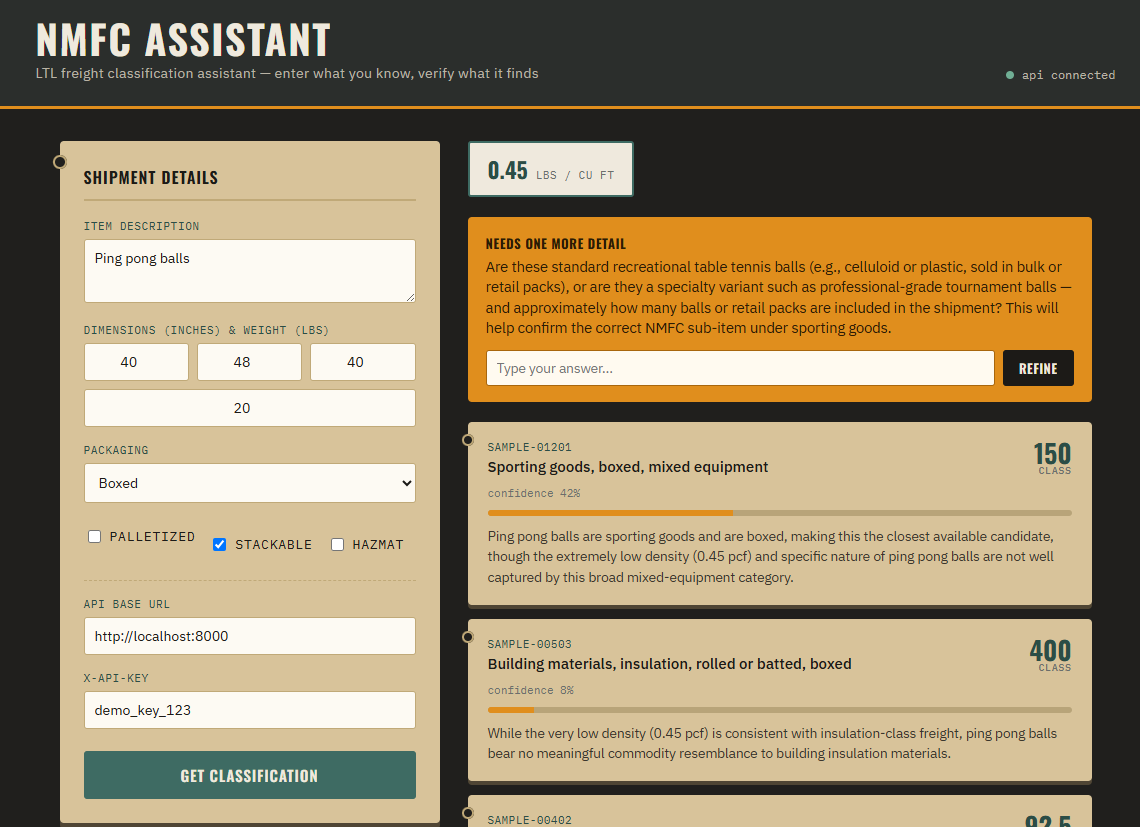
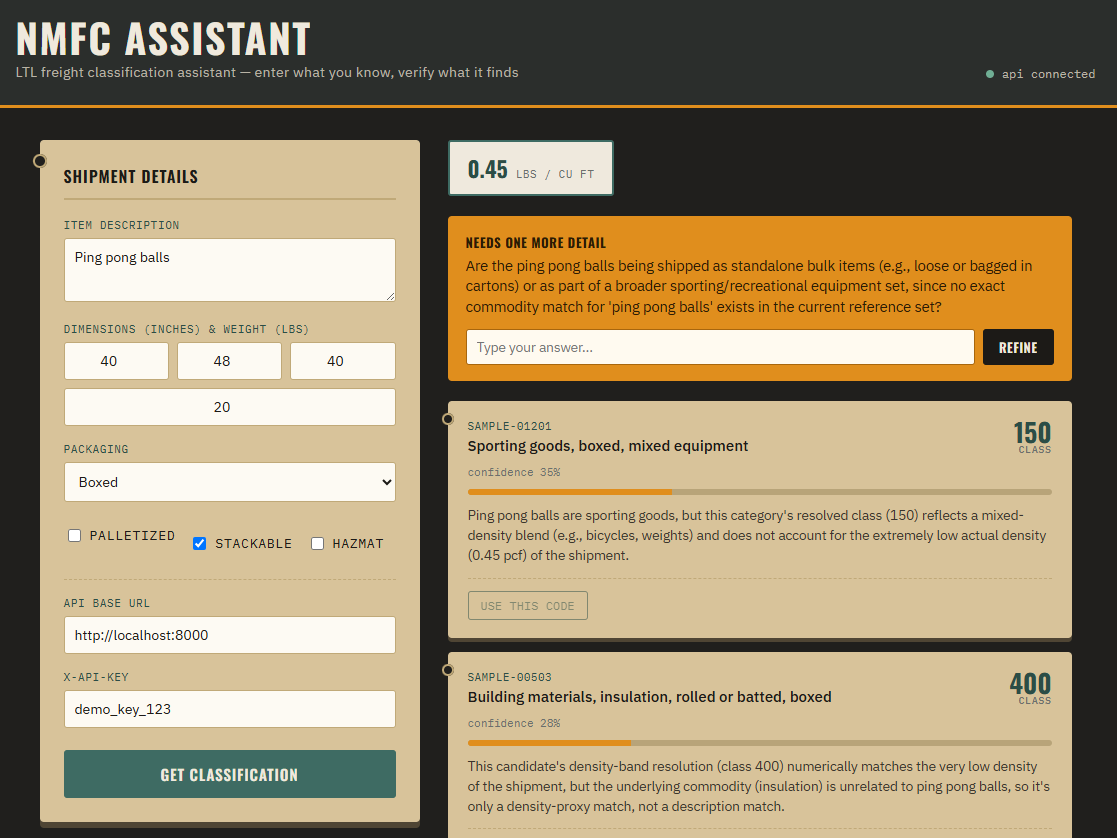
Add Sheets logging, fix latency + response parsing
Add Sheets logging, fix latency + response parsing

Changed region(s): [[0.0, 0.0, 1.0, 1.0]]

diff --git a/demo.html b/demo.html
@@ -395,6 +395,41 @@
     border-radius: 3px;
   }
 
+  .select-row {
+    margin-top: 12px;
+    padding-top: 12px;
+    border-top: 1px dashed var(--manila-dark);
+  }
+
+  button.select-btn {
+    background: transparent;
+    color: var(--teal-dark);
+    border: 1.5px solid var(--teal-dark);
+    font-family: 'IBM Plex Mono', monospace;
+    font-size: 11.5px;
+    letter-spacing: 0.03em;
+    text-transform: uppercase;
+    padding: 6px 12px;
+    border-radius: 3px;
+    cursor: pointer;
+  }
+  button.select-btn:hover { background: var(--teal-dark); color: var(--chalk); }
+  button.select-btn:focus-visible { outline: 3px solid var(--amber); outline-offset: 2px; }
+  button.select-btn:disabled { opacity: 0.5; cursor: default; }
+
+  .selected-mark {
+    font-family: 'IBM Plex Mono', monospace;
+    font-size: 11.5px;
+    letter-spacing: 0.03em;
+    color: var(--teal-dark);
+    font-weight: 600;
+  }
+
+  .tag.is-selected {
+    outline: 3px solid var(--teal-dark);
+    outline-offset: 2px;
+  }
+
   .error-box {
     background: #3a1f14;
     color: #f0c9a8;
@@ -509,7 +544,7 @@
       ? `<div class="hazmat-strip">⚠ HAZMAT — requires manual compliance review regardless of confidence</div>`
       : '';
     return `
-      <div class="tag">
+      <div class="tag" data-item-id="${s.nmfc_item_id}">
         <div class="tag-top-row">
           <div>
             <div class="tag-id">${s.nmfc_item_id}</div>
@@ -521,6 +556,9 @@
         <div class="gauge"><div class="gauge-fill ${confidenceClass(s.confidence)}" style="width:${pct}%"></div></div>
         <div class="rationale">${s.rationale}</div>
         ${hazmatStrip}
+        <div class="select-row">
+          <button type="button" class="select-btn" data-select-id="${s.nmfc_item_id}">Use this code</button>
+        </div>
       </div>
     `;
   }
@@ -529,6 +567,48 @@
   // answer can be merged in and re-sent without making the user retype the form.
   let lastPayload = null;
   let lastQuestion = null;
+  let lastResponseData = null;   // the full /suggest response, needed for logging selections
+  let lastDescription = null;
+
+  function wireSelectButtons() {
+    document.querySelectorAll('.select-btn').forEach((btn) => {
+      btn.addEventListener('click', () => logSelection(btn.dataset.selectId));
+    });
+  }
+
+  async function logSelection(selectedItemId) {
+    if (!lastResponseData || !lastDescription) return;
+
+    const base = document.getElementById('apiBase').value.replace(/\/$/, '');
+    const apiKey = document.getElementById('apiKey').value;
+
+    // Reflect the choice in the UI immediately, before waiting on the network call —
+    // this is a background analytics signal, not something that should block the user.
+    document.querySelectorAll('.tag').forEach((tag) => {
+      tag.classList.toggle('is-selected', tag.dataset.itemId === selectedItemId);
+    });
+    document.querySelectorAll('.select-btn').forEach((btn) => {
+      btn.disabled = true;
+      btn.textContent = btn.dataset.selectId === selectedItemId ? '✓ Selected' : 'Use this code';
+    });
+
+    try {
+      await fetch(`${base}/v1/nmfc/log-selection`, {
+        method: 'POST',
+        headers: { 'Content-Type': 'application/json', 'X-API-Key': apiKey },
+        body: JSON.stringify({
+          description: lastDescription,
+          computed_density_pcf: lastResponseData.computed_density_pcf,
+          suggestions: lastResponseData.suggestions,
+          selected_item_id: selectedItemId,
+        }),
+      });
+      // Logging failures are silent by design here — this is a background signal,
+      // not something worth interrupting the user's workflow over.
+    } catch {
+      /* no-op */
+    }
+  }
 
   async function runClassification(payload, busyEl, busyLabel, idleLabel) {
     busyEl.disabled = true;
@@ -582,6 +662,10 @@
 
       lastPayload = payload;
       lastQuestion = data.clarifying_question;
+      lastResponseData = data;
+      lastDescription = payload.description;
+
+      wireSelectButtons();
 
       if (data.needs_clarification) {
         document.getElementById('refineBtn').addEventListener('click', submitClarification);

diff --git a/main.py b/main.py
@@ -35,9 +35,24 @@ from pydantic import BaseModel, Field
 import anthropic
 
 from density import compute_density_pcf, resolve_class
-from build_embeddings import search, load_dataset
+from build_embeddings import search, load_dataset, MODEL_NAME
+from sentence_transformers import SentenceTransformer
+import sheets_logger
 
 app = FastAPI(title="NMFC Code Suggestion API", version="0.1.0")
+
+# The embedding model is loaded once here, at process startup, and reused for
+# every request. Loading it fresh per-request (the previous behavior when no
+# model was passed to search()) was the single biggest source of latency —
+# several seconds of model initialization on every call for no reason, since
+# the model itself never changes between requests.
+_embedding_model: Optional[SentenceTransformer] = None
+
+
+@app.on_event("startup")
+def load_embedding_model():
+    global _embedding_model
+    _embedding_model = SentenceTransformer(MODEL_NAME)
 
 # Demo-only: allows the standalone HTML frontend (opened as a local file, a different
 # "origin" than the API) to call this endpoint from the browser. Lock this down to
@@ -49,7 +64,7 @@ app.add_middleware(
     allow_headers=["*"],
 )
 
-ANTHROPIC_MODEL = "claude-sonnet-4-6"
+ANTHROPIC_MODEL = os.environ.get("ANTHROPIC_MODEL", "claude-sonnet-5")
 API_KEY = os.environ.get("NMFC_API_KEY")  # demo-level auth only; swap for real key management in production
 
 SYSTEM_PROMPT = """You are an NMFC freight classification assistant. You will be given:
@@ -73,6 +88,17 @@ Your job:
   but note that hazmat items require manual compliance review regardless of classification confidence
 - If the top candidate's confidence is below 0.5, set needs_clarification to true and ask exactly
   ONE targeted question that would most improve confidence — never ask multiple questions
+
+CRITICAL — do not use outside knowledge for classification specifics:
+- This system operates on a synthetic demo dataset, not the real licensed NMFC tariff. Only reference
+  the specific item_ids, descriptions, and classes given in the candidates list below.
+- NEVER invent, cite, or reference real-world NMFC item/sub-item numbers, tariff codes, or DOT/hazmat
+  identifiers (e.g. UN numbers) that are not present in the provided candidate data, even if you
+  believe you know the correct real-world classification. Stating an unverified real regulatory
+  number as fact is worse than saying nothing.
+- If none of the provided candidates are a reasonably close match, say so plainly in the rationale
+  and/or clarifying_question — e.g. "no close match in the current reference set for this item type"
+  — rather than filling the gap with a fabricated but plausible-sounding classification detail.
 
 Respond ONLY with valid JSON matching this schema, no markdown, no preamble, no code fences:
 {
@@ -106,6 +132,19 @@ class SuggestResponse(BaseModel):
     clarifying_question: Optional[str]
 
 
+class LogSelectionRequest(BaseModel):
+    description: str
+    computed_density_pcf: float
+    suggestions: list  # the full ranked list as originally returned by /v1/nmfc/suggest
+    selected_item_id: str
+
+
+class LogSelectionResponse(BaseModel):
+    logged: bool
+    was_override: Optional[bool] = None
+    error: Optional[str] = None
+
+
 def verify_api_key(x_api_key: Optional[str]):
     if API_KEY and x_api_key != API_KEY:
         raise HTTPException(status_code=401, detail="Invalid or missing API key")
@@ -127,7 +166,7 @@ def build_candidate_payload(request: SuggestRequest, top_k: int = 5) -> tuple[fl
     if request.clarification_answer:
         retrieval_query = f"{request.description}. {request.clarification_answer}"
 
-    retrieved = search(retrieval_query, top_k=top_k)
+    retrieved = search(retrieval_query, top_k=top_k, model=_embedding_model)
     dataset_by_id = {c["item_id"]: c for c in load_dataset()}
 
     candidates = []
@@ -170,12 +209,26 @@ def call_claude_for_ranking(request: SuggestRequest, density_pcf: float, candida
 
     response = client.messages.create(
         model=ANTHROPIC_MODEL,
-        max_tokens=1000,
+        max_tokens=2000,
         system=SYSTEM_PROMPT,
         messages=[{"role": "user", "content": json.dumps(user_payload)}],
     )
 
-    raw_text = response.content[0].text.strip()
+    # Don't assume content[0] is the text block — models can return a thinking
+    # block (or other block types) before the actual text response. Filter by
+    # type instead of relying on position.
+    text_blocks = [block.text for block in response.content if block.type == "text"]
+    if not text_blocks:
+        raise ValueError("Claude response contained no text block to parse")
+    raw_text = "".join(text_blocks).strip()
+
+    if response.stop_reason == "max_tokens":
+        print(
+            f"--- WARNING: Claude response was truncated at the max_tokens limit "
+            f"({response.usage.output_tokens} tokens used). Raw response: ---"
+        )
+        print(raw_text)
+        print("--- end of truncated response ---")
     # Defensive: strip markdown fences if the model adds them despite instructions
     if raw_text.startswith("```"):
         raw_text = raw_text.strip("`")
@@ -183,7 +236,16 @@ def call_claude_for_ranking(request: SuggestRequest, density_pcf: float, candida
             raw_text = raw_text[4:]
         raw_text = raw_text.strip()
 
-    return json.loads(raw_text)
+    try:
+        return json.loads(raw_text)
+    except json.JSONDecodeError:
+        # Print the raw response to the server console so this is diagnosable —
+        # a generic error to the caller is fine, but silently losing the actual
+        # model output makes debugging truncation/formatting issues much harder.
+        print("--- Claude response failed to parse as JSON ---")
+        print(raw_text)
+        print("--- end of raw response ---")
+        raise
 
 
 @app.post("/v1/nmfc/suggest", response_model=SuggestResponse)
@@ -206,6 +268,34 @@ def suggest_nmfc_code(request: SuggestRequest, x_api_key: Optional[str] = Header
         needs_clarification=claude_result.get("needs_clarification", False),
         clarifying_question=claude_result.get("clarifying_question"),
     )
+
+
+@app.post("/v1/nmfc/log-selection", response_model=LogSelectionResponse)
+def log_selection(request: LogSelectionRequest, x_api_key: Optional[str] = Header(None)):
+    verify_api_key(x_api_key)
+
+    top_suggestion = request.suggestions[0] if request.suggestions else None
+    selected_suggestion = next(
+        (s for s in request.suggestions if s.get("nmfc_item_id") == request.selected_item_id),
+        None,
+    )
+
+    row = sheets_logger.build_log_row(
+        description=request.description,
+        computed_density_pcf=request.computed_density_pcf,
+        top_suggestion=top_suggestion,
+        selected_item_id=request.selected_item_id,
+        selected_suggestion=selected_suggestion,
+    )
+
+    # Logging is a fire-and-forget analytics signal — a Sheets outage or bad
+    # credentials should never break the user-facing classification flow, so
+    # failures here are reported back but not raised as an HTTP error.
+    try:
+        sheets_logger.log_selection(row)
+        return LogSelectionResponse(logged=True, was_override=row["was_override"])
+    except Exception as e:
+        return LogSelectionResponse(logged=False, error=str(e))
 
 
 @app.get("/health")

diff --git a/sheets_logger.py b/sheets_logger.py
@@ -1,0 +1,101 @@
+"""
+sheets_logger.py
+
+Appends one row per user selection to a Google Sheet, so overrides (when a
+user picks something other than the top suggestion) can be reviewed later
+as a feedback signal for improving retrieval/reasoning quality.
+
+Setup (one-time):
+  1. Create a Google Cloud service account, enable the Sheets + Drive APIs,
+     download its JSON key file.
+  2. Share your target Google Sheet with the service account's email
+     (Editor access) — same as sharing with any person.
+  3. Set these environment variables:
+       GOOGLE_SHEETS_CREDENTIALS_PATH = path to the downloaded JSON key file
+       GOOGLE_SHEET_ID                = the ID from the sheet's URL
+       GOOGLE_SHEET_WORKSHEET         = optional, defaults to "Overrides"
+
+This module fails loudly on misconfiguration (missing env vars, bad creds)
+but is called in a try/except from main.py — a logging failure should never
+break the classification response itself.
+"""
+
+import os
+from datetime import datetime, timezone
+
+import gspread
+from google.oauth2.service_account import Credentials
+
+SCOPES = ["https://www.googleapis.com/auth/spreadsheets"]
+
+CREDENTIALS_PATH = os.environ.get("GOOGLE_SHEETS_CREDENTIALS_PATH")
+SHEET_ID = os.environ.get("GOOGLE_SHEET_ID")
+WORKSHEET_NAME = os.environ.get("GOOGLE_SHEET_WORKSHEET", "Overrides")
+
+HEADER = [
+    "timestamp_utc",
+    "item_description",
+    "computed_density_pcf",
+    "top_suggested_item_id",
+    "top_suggested_class",
+    "top_confidence",
+    "user_selected_item_id",
+    "user_selected_class",
+    "user_selected_confidence",
+    "was_override",
+]
+
+
+def _get_worksheet():
+    if not CREDENTIALS_PATH or not SHEET_ID:
+        raise RuntimeError(
+            "GOOGLE_SHEETS_CREDENTIALS_PATH and GOOGLE_SHEET_ID must both be set "
+            "as environment variables before logging can work."
+        )
+
+    creds = Credentials.from_service_account_file(CREDENTIALS_PATH, scopes=SCOPES)
+    client = gspread.authorize(creds)
+    sheet = client.open_by_key(SHEET_ID)
+
+    try:
+        worksheet = sheet.worksheet(WORKSHEET_NAME)
+    except gspread.WorksheetNotFound:
+        worksheet = sheet.add_worksheet(title=WORKSHEET_NAME, rows=1000, cols=len(HEADER))
+
+    # Add the header row if the sheet/worksheet is brand new and empty
+    if not worksheet.row_values(1):
+        worksheet.append_row(HEADER)
+
+    return worksheet
+
+
+def log_selection(row: dict) -> None:
+    """
+    row should contain keys matching (a subset of) HEADER; missing keys are
+    written as blank cells. Column order is fixed regardless of dict order.
+    """
+    worksheet = _get_worksheet()
+    ordered_row = [row.get(col, "") for col in HEADER]
+    worksheet.append_row(ordered_row, value_input_option="USER_ENTERED")
+
+
+def build_log_row(
+    description: str,
+    computed_density_pcf: float,
+    top_suggestion: dict | None,
+    selected_item_id: str,
+    selected_suggestion: dict | None,
+) -> dict:
+    top_id = top_suggestion["nmfc_item_id"] if top_suggestion else None
+    return {
+        "timestamp_utc": datetime.now(timezone.utc).isoformat(),
+        "item_description": description,
+        "computed_density_pcf": computed_density_pcf,
+        "top_suggested_item_id": top_id,
+        "top_suggested_class": top_suggestion["suggested_class"] if top_suggestion else "",
+        "top_confidence": top_suggestion["confidence"] if top_suggestion else "",
+        "user_selected_item_id": selected_item_id,
+        "user_selected_class": selected_suggestion["suggested_class"] if selected_suggestion else "",
+        "user_selected_confidence": selected_suggestion["confidence"] if selected_suggestion else "",
+        "was_override": selected_item_id != top_id,
+    }
